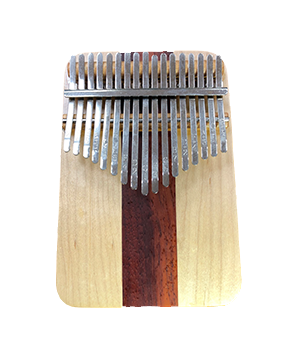
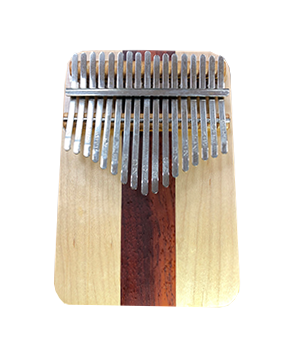
0321-2

diff --git a/others_kalimba.html b/others_kalimba.html
@@ -155,7 +155,7 @@
             </div>
             <div class="swiper-container">
             <div class="swiper-wrapper">
-              <div class="swiper-slide"><img src="img/product/kalimba/kalimba04-1.png"></div>
+              <div class="swiper-slide"><img src="img/product/kalimba/kalimba05-1.png"></div>
               <div class="swiper-slide"><img src="img/product/kalimba/kalimba05-2.jpg"></div>
             </div>
             <!-- Add Arrows -->
